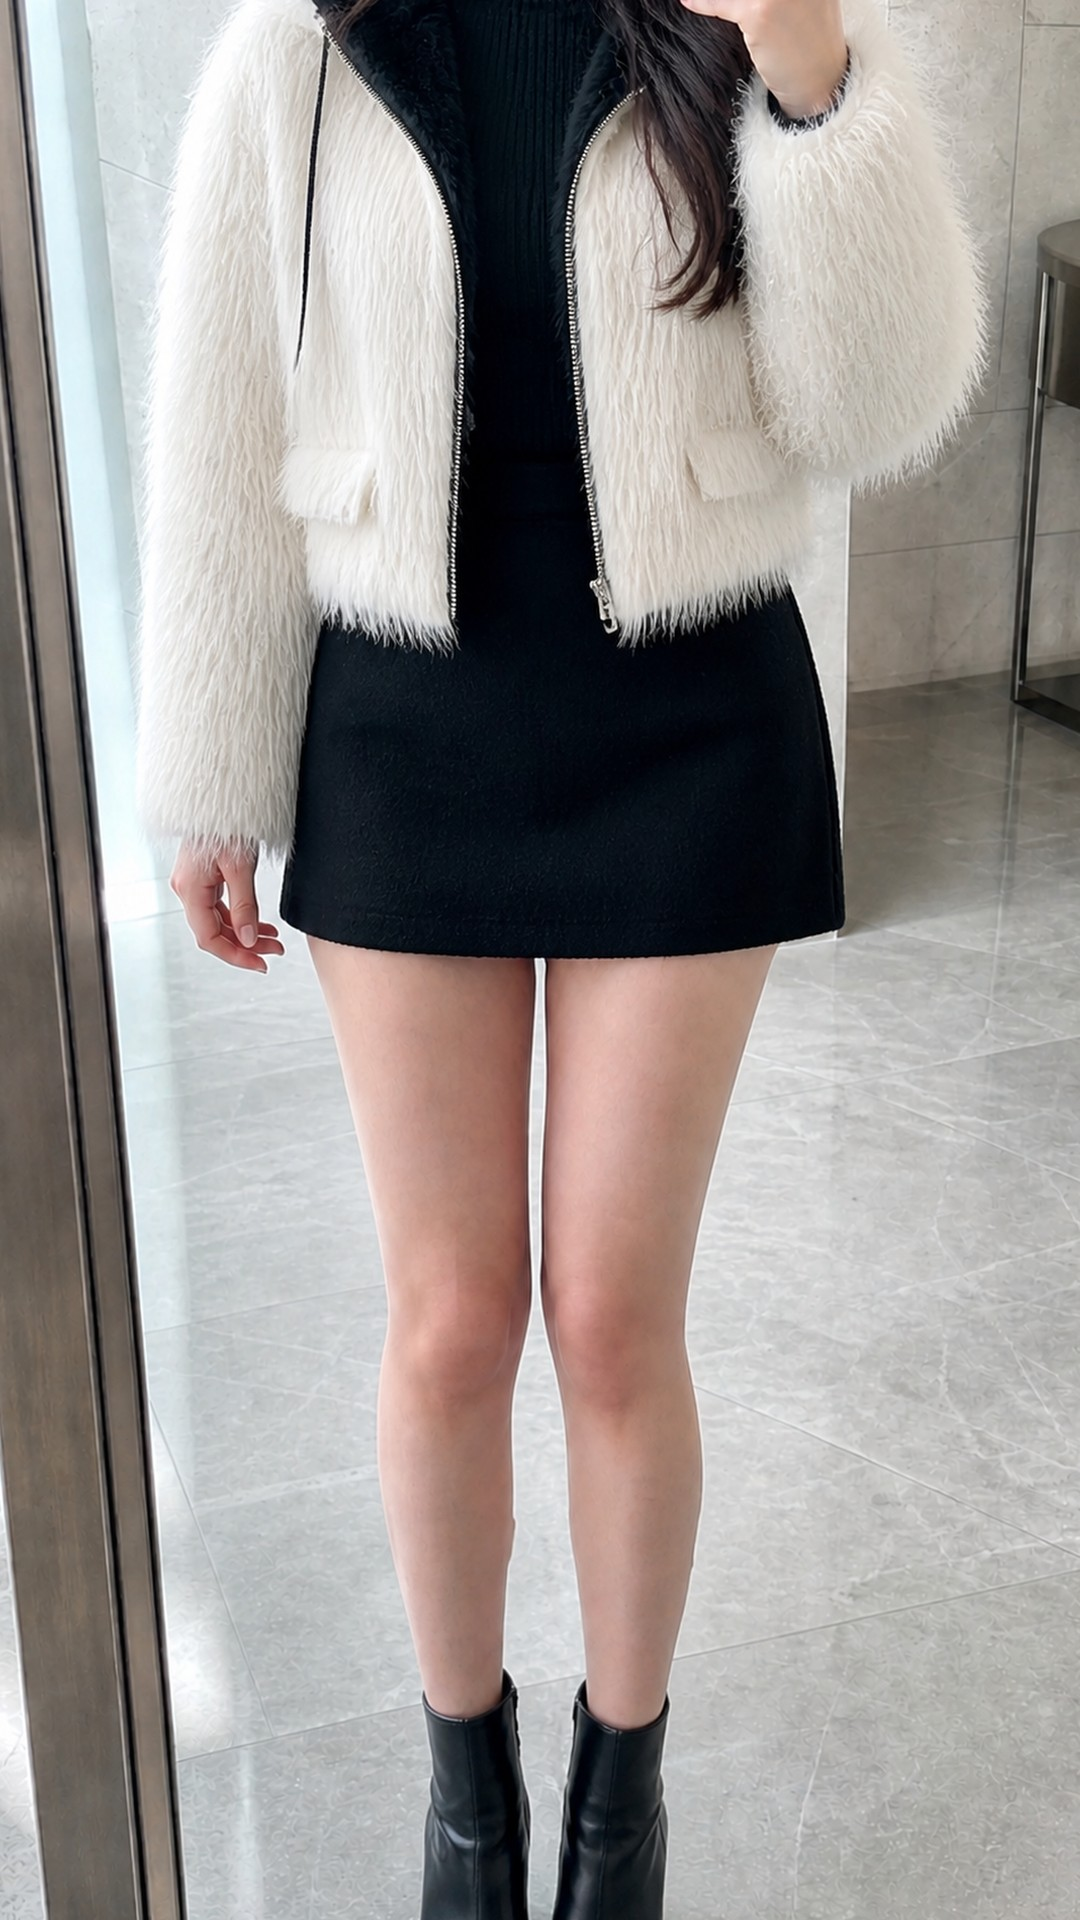
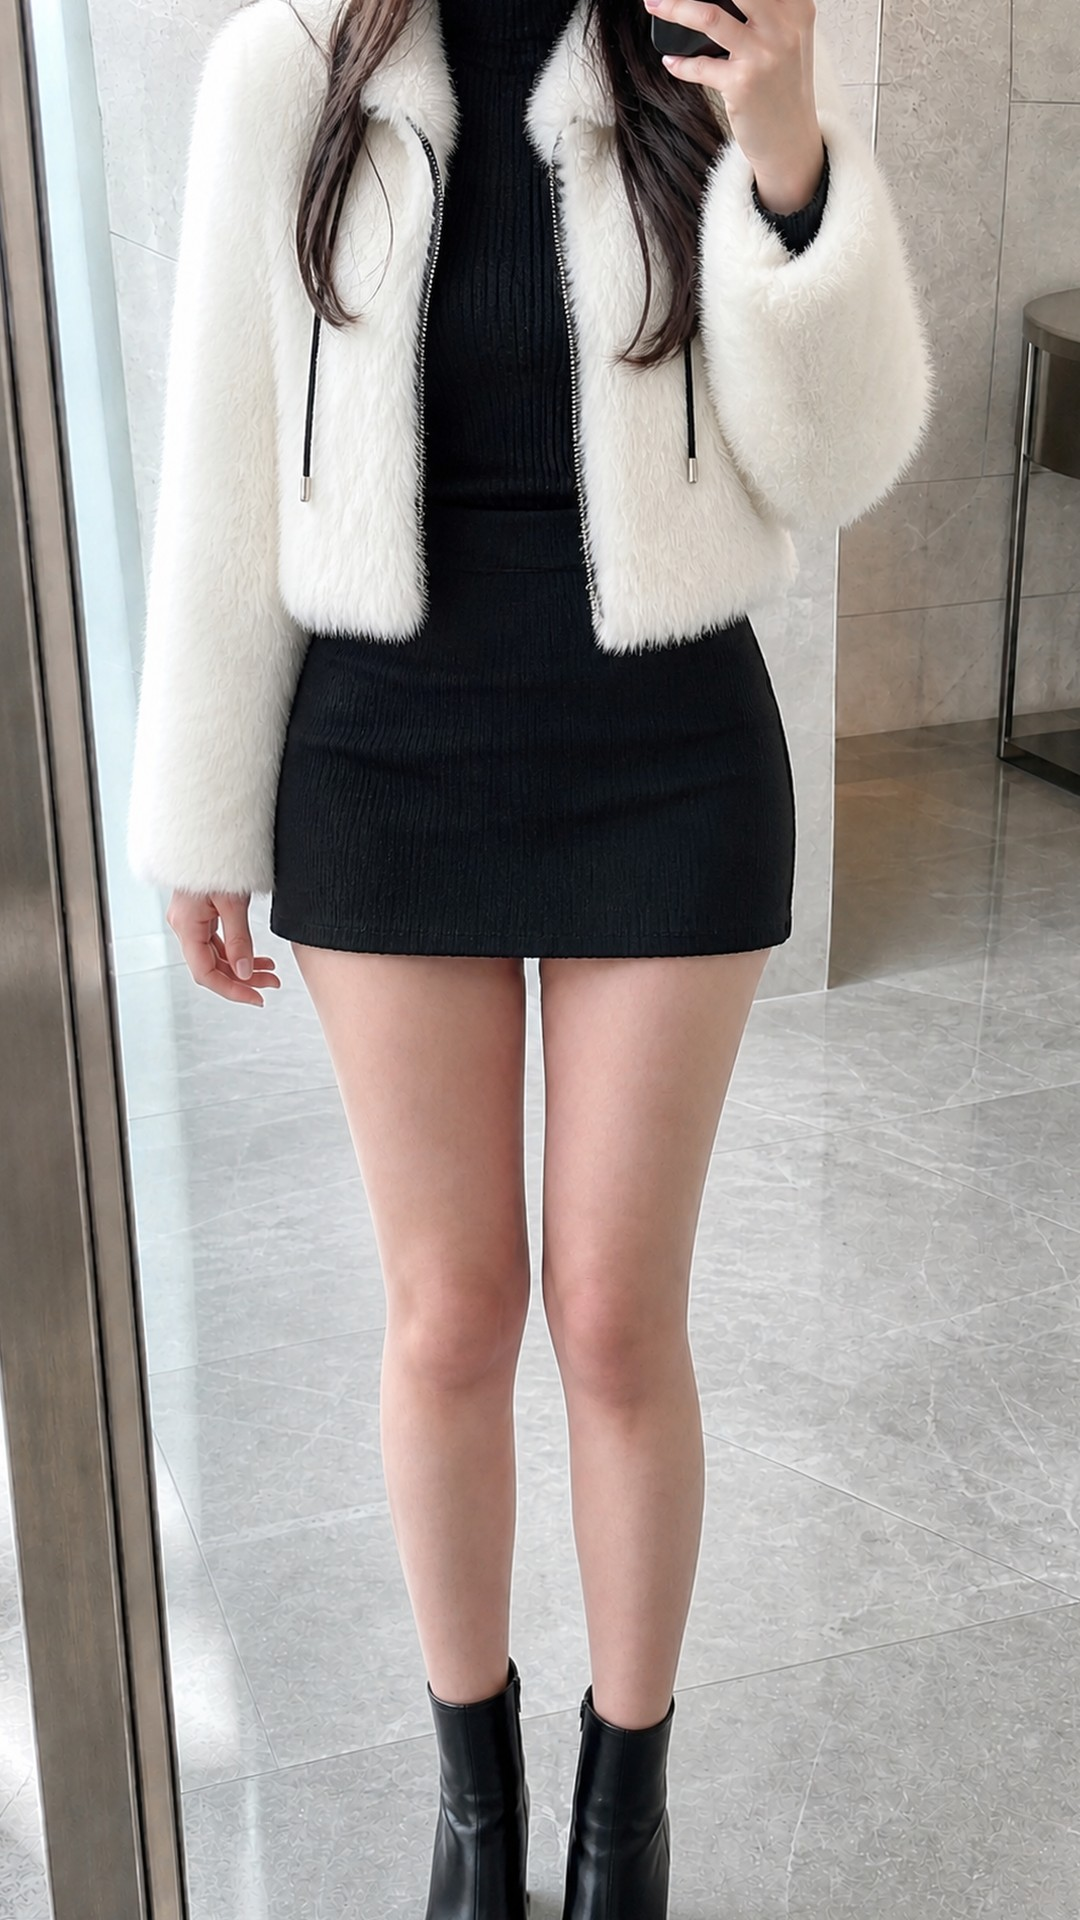
1122party: 링크 없는 '같은 코디 소품' 0 — 폴라티·H라인 스커트·새틴 블라우스 에이블리 수익링크 추가, 룩2·3·5 실물 1:1 재생성 및 밑단·중심 통일

diff --git a/1122party/index.html b/1122party/index.html
@@ -60,21 +60,21 @@ a{color:inherit;text-decoration:none}
       <div class="lab"><small>LOOK</small>01<em>아이보리 트위드 셋업</em></div>
       <img class="ph" src="look1.jpg" alt="LOOK 01 아이보리 트위드 셋업">
       <ul class="items">
-        <li><a class="it" href="https://applink.a-bly.com/s5uiket" target="_blank" rel="noopener sponsored"><span class="nm">하이클래식 헤즐넛 골드버튼 크롭 울 트위드 자켓 + H라인 미니 스커트 세트 (아이보리)</span><span class="go">에이블리에서 보기</span></a></li><li><div class="it"><span class="nm">스타일링 · 화이트 골지 터틀넥 + 아이보리 앵클부츠</span><span class="nolink">같은 코디 소품</span></div></li>
+        <li><a class="it" href="https://applink.a-bly.com/s5uiket" target="_blank" rel="noopener sponsored"><span class="nm">하이클래식 헤즐넛 골드버튼 크롭 울 트위드 자켓 + H라인 미니 스커트 세트 (아이보리)</span><span class="go">에이블리에서 보기</span></a></li><li><a class="it" href="https://applink.a-bly.com/kyjr88h" target="_blank" rel="noopener sponsored"><span class="nm">하이클래식 마카롱 슬림 폴라 쫀쫀 소프트 여리핏 데일리 티셔츠 (아이보리)</span><span class="go">에이블리에서 보기</span></a></li>
       </ul>
     </section>
     <section class="look" id="l2">
       <div class="lab"><small>LOOK</small>02<em>화이트 페이크퍼 크롭 자켓</em></div>
       <img class="ph" src="look2.jpg" alt="LOOK 02 화이트 페이크퍼 크롭 자켓" loading="lazy">
       <ul class="items">
-        <li><a class="it" href="https://applink.a-bly.com/qd4c61k" target="_blank" rel="noopener sponsored"><span class="nm">온유어리 아우라 윈터 크롭 페이크퍼 카라 자켓 (화이트)</span><span class="go">에이블리에서 보기</span></a></li><li><div class="it"><span class="nm">스타일링 · 블랙 골지 터틀넥 + 블랙 미니스커트 + 앵클부츠</span><span class="nolink">같은 코디 소품</span></div></li>
+        <li><a class="it" href="https://applink.a-bly.com/qd4c61k" target="_blank" rel="noopener sponsored"><span class="nm">온유어리 아우라 윈터 크롭 페이크퍼 카라 자켓 (화이트)</span><span class="go">에이블리에서 보기</span></a></li><li><a class="it" href="https://applink.a-bly.com/kyjr88h" target="_blank" rel="noopener sponsored"><span class="nm">하이클래식 마카롱 슬림 폴라 쫀쫀 소프트 여리핏 데일리 티셔츠 (블랙)</span><span class="go">에이블리에서 보기</span></a></li><li><a class="it" href="https://applink.a-bly.com/cyhnnhk" target="_blank" rel="noopener sponsored"><span class="nm">온유어리 로키 클래식 모직 숏 H라인 치마바지 스커트 (블랙)</span><span class="go">에이블리에서 보기</span></a></li>
       </ul>
     </section>
     <section class="look" id="l3">
       <div class="lab"><small>LOOK</small>03<em>블랙 벨벳 플레어 원피스</em></div>
       <img class="ph" src="look3.jpg" alt="LOOK 03 블랙 벨벳 플레어 원피스" loading="lazy">
       <ul class="items">
-        <li><a class="it" href="https://applink.a-bly.com/ph20syh" target="_blank" rel="noopener sponsored"><span class="nm">데이로제 쇼콜라 벨벳 나시 플레어 미니 원피스 (블랙)</span><span class="go">에이블리에서 보기</span></a></li><li><div class="it"><span class="nm">스타일링 · 화이트 카라 블라우스 + 블랙 슬링백</span><span class="nolink">같은 코디 소품</span></div></li>
+        <li><a class="it" href="https://applink.a-bly.com/ph20syh" target="_blank" rel="noopener sponsored"><span class="nm">데이로제 쇼콜라 벨벳 나시 플레어 미니 원피스 (블랙)</span><span class="go">에이블리에서 보기</span></a></li><li><a class="it" href="https://applink.a-bly.com/j1g3y8b" target="_blank" rel="noopener sponsored"><span class="nm">데이로제 오드 새틴 스트랩 셔츠 블라우스 (아이보리)</span><span class="go">에이블리에서 보기</span></a></li>
       </ul>
     </section>
     <section class="look" id="l4">
